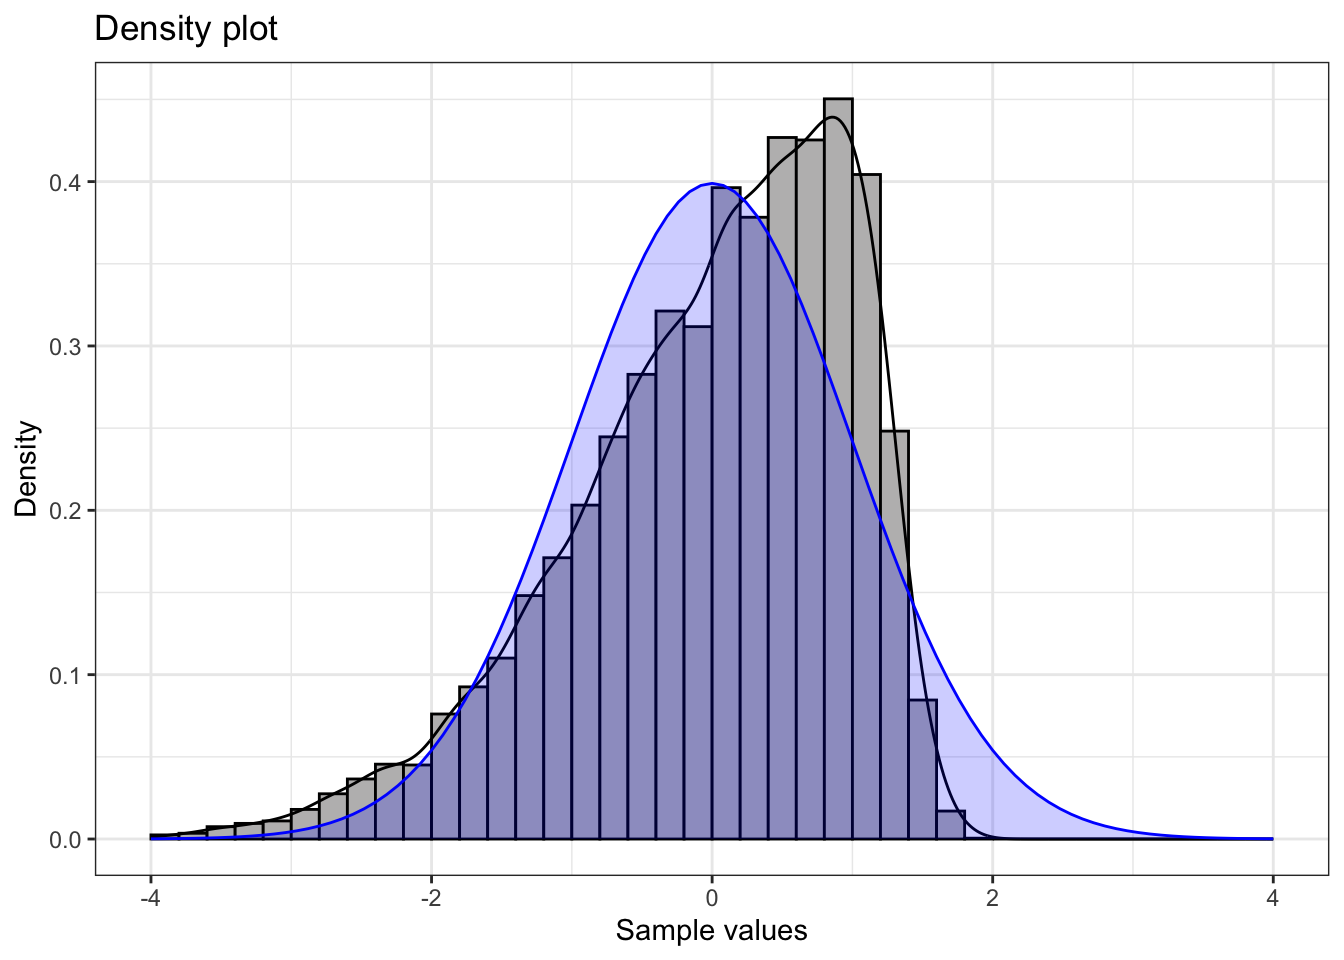
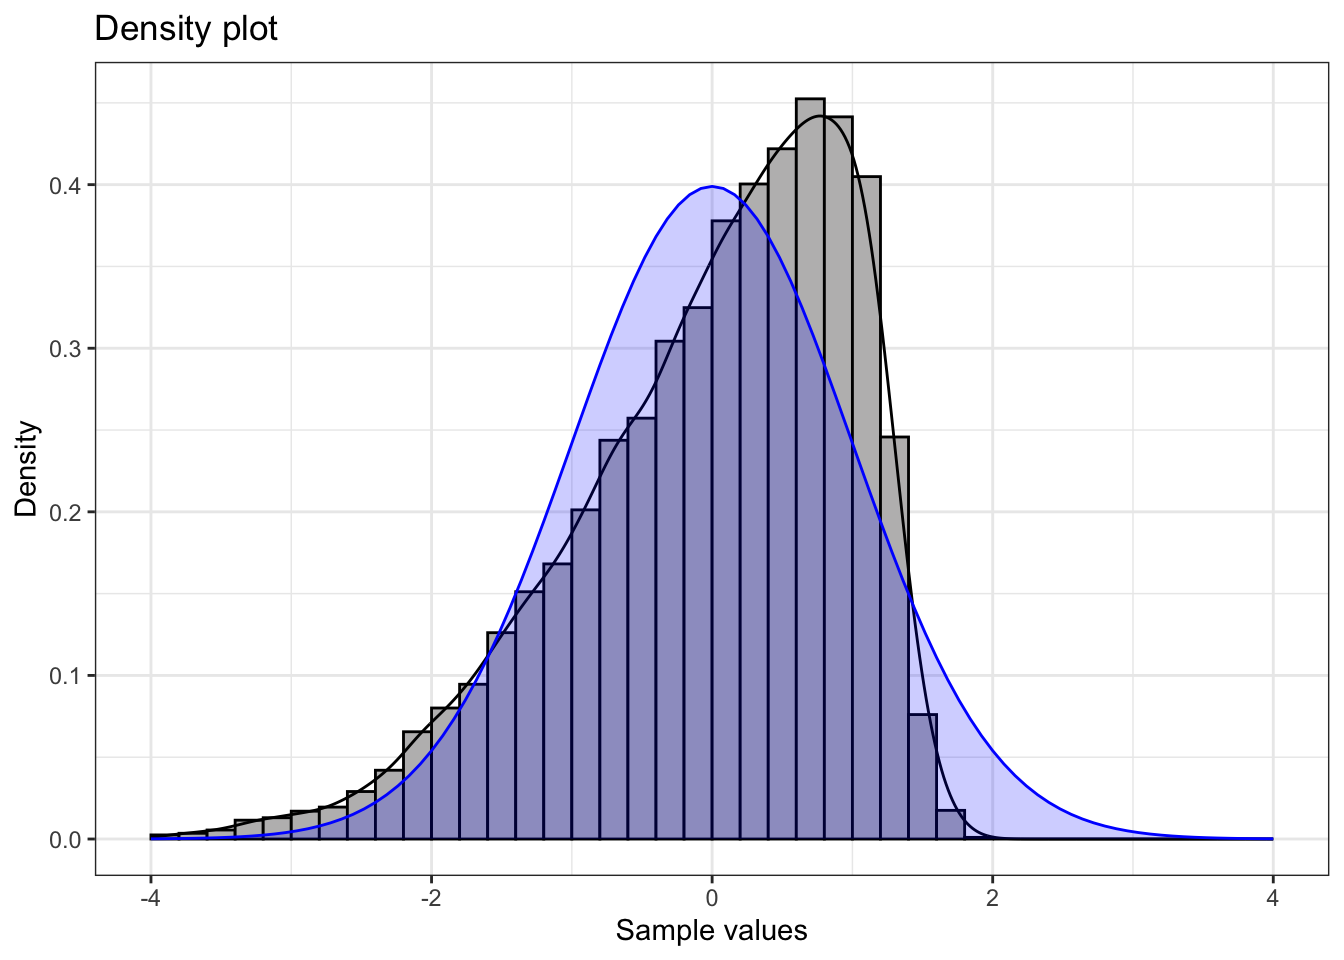
post update

diff --git a/docs/02_Data_Visualization.html b/docs/02_Data_Visualization.html
@@ -1263,8 +1263,8 @@ sample estimates:
 <p>Summary statistics:</p>
 <div class="cell">
 <div class="cell-output cell-output-stdout">
-<pre><code>      n   min mean median  max sd skewness kurtosis
-1 10000 -2.05    0  -0.18 5.57  1     0.88     3.71</code></pre>
+<pre><code>      n   min  mean median  max sd skewness kurtosis
+1 10000 -2.08 -0.01  -0.18 4.74  1     0.87     3.58</code></pre>
 </div>
 </div>
 <p>💡 Note that for a positive skewed distribution, <strong>the mean is larger than the median</strong> because the long right tail pulls the mean above the median.</p>
@@ -1301,8 +1301,8 @@ sample estimates:
 <p>Summary statistics:</p>
 <div class="cell">
 <div class="cell-output cell-output-stdout">
-<pre><code>      n  min mean median  max sd skewness kurtosis
-1 10000 -4.6    0   0.16 1.81  1    -0.87     3.58</code></pre>
+<pre><code>      n   min  mean median  max sd skewness kurtosis
+1 10000 -4.89 -0.01   0.18 1.86  1    -0.86     3.53</code></pre>
 </div>
 </div>
 <p>💡 Note that for a negatively skewed distribution, <strong>the mean is smaller than the median</strong> because the long left tail pulls the mean above the median.</p>
@@ -1347,8 +1347,8 @@ sample estimates:
 <p>Summary statistics:</p>
 <div class="cell">
 <div class="cell-output cell-output-stdout">
-<pre><code>     n    min mean median   max   sd skewness kurtosis
-1 1000 -11.64 0.02      0 11.44 1.63     0.66    12.74</code></pre>
+<pre><code>     n    min  mean median  max   sd skewness kurtosis
+1 1000 -12.47 -0.03  -0.02 8.43 1.63    -0.79    12.03</code></pre>
 </div>
 </div>
 <p><strong>Understanding Fat Tails (High Kurtosis):</strong></p>
@@ -1390,7 +1390,7 @@ sample estimates:
 <div class="cell">
 <div class="cell-output cell-output-stdout">
 <pre><code>     n   min mean median  max   sd skewness kurtosis
-1 1000 -1.39 0.02   0.02 1.16 0.58    -0.06     1.94</code></pre>
+1 1000 -1.12    0  -0.01 1.19 0.57     0.04     1.96</code></pre>
 </div>
 </div>
 <p><strong>Understanding Thin Tails (Low Kurtosis):</strong></p>

diff --git a/docs/04_Theoretical_Framework_LR.html b/docs/04_Theoretical_Framework_LR.html
@@ -988,7 +988,7 @@ Solution
 </div>
 <div class="cell" data-layout-align="center">
 <div class="cell-output-display">
-<div id="fig-clt" class="quarto-float quarto-figure quarto-figure-center anchored" data-fig-align="center" width="990" data-fig-pos="H">
+<div id="fig-clt" class="quarto-float quarto-figure quarto-figure-center anchored" data-fig-pos="H" width="990" data-fig-align="center">
 <figure class="quarto-float quarto-float-fig figure">
 <div aria-describedby="fig-clt-caption-0ceaefa1-69ba-4598-a22c-09a6ac19f8ca">
 <img src="images/CLT.png" id="fig-clt" class="img-fluid quarto-figure quarto-figure-center anchored figure-img" data-fig-pos="H" width="990">

diff --git a/docs/index.html b/docs/index.html
@@ -712,7 +712,7 @@ ul.task-list li input[type="checkbox"] {
 <p>More details will be provided as the course progresses.</p></li>
 <li><p>Eksamen (school exam): 60%</p>
 <p>Digitally in Inspera;<br>
-Date: 17.11.2025</p></li>
+Date: 18.11.2025 (Refer to Studentweb for the exact time)</p></li>
 </ul>
 </section>
 <section id="study-objectives" class="level2" data-number="4">
